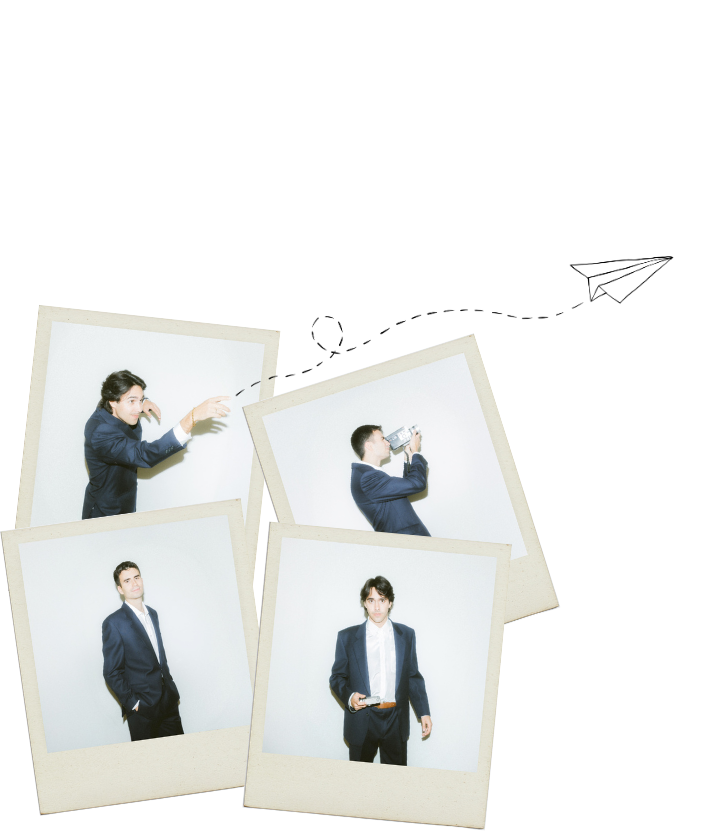
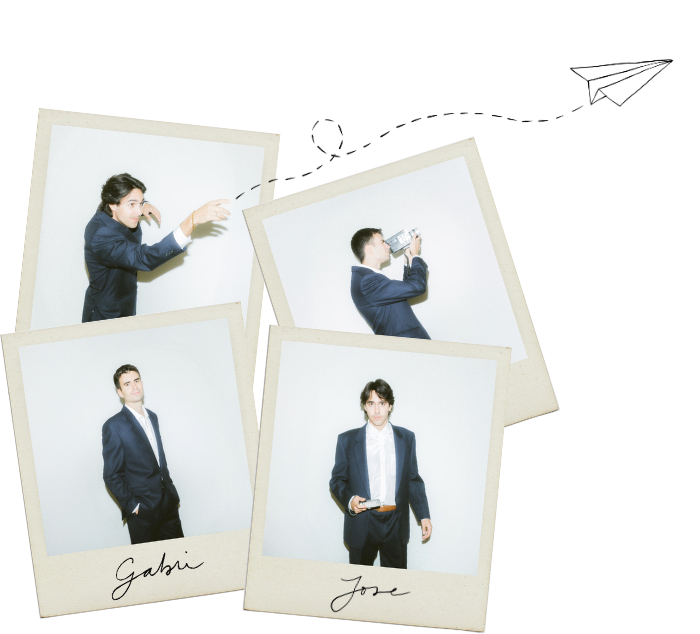
Add files via upload

diff --git a/index.html b/index.html
@@ -1,7 +1,8 @@
 <!DOCTYPE html>
-<html lang="en">
+<html lang="en" translate="no">
 <head>
   <meta charset="UTF-8">
+  <meta name="google" content="notranslate">
   
   <meta name="viewport" content="width=device-width, initial-scale=1.0">
   <title>asttros — wedding docs</title>
